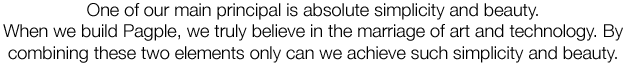
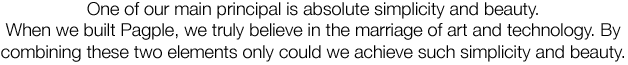
annotation building, transition done

diff --git a/Alpha/css/style.css b/Alpha/css/style.css
@@ -26,7 +26,7 @@ input {
 body,
 html {
   position: relative;
-  min-width: 1752px;
+  min-width: 1764px;
   max-width: 1920px;
   width: 100%;
   height: 100%;
@@ -103,6 +103,7 @@ div#navigationBar-anchor{
  }
 
  div#navigationBar li a {
+     
    text-decoration: none;
    color: white;
    text-align: center;
@@ -118,8 +119,8 @@ div#navigationBar-anchor{
 
  div#navigationBar li a p {
    padding-left: 10px;
-   padding-top: 10px;
-   font-family: "HelveticaNeue-Bold", "Helvetica Neue Bold", "Helvetica Neue", Helvetica, Arial, "Lucida Grande", sans-serif;
+   padding-top: 15px;
+   font-family: ProximaNova, "HelveticaNeue-Light", "Helvetica Neue Light", "Helvetica Neue", Helvetica, Arial, "Lucida Grande", sans-serif;
    font-weight: 700;
    font-size: 17px;
    vertical-align: middle;
@@ -158,7 +159,7 @@ div#overview {
   position: relative;
   margin: 0 auto;
   margin-top: 100px;
-  width: 80%;
+  width: 70%;
   height: 427px;
   -moz-border-radius: 5px;
   -webkit-border-radius: 5px;
@@ -221,7 +222,7 @@ div#overview {
 div#threeDesc {
   margin: 0 auto;
   margin-top: 50px;
-  width: 80%;
+  width: 70%;
   height: 1342px;
   -moz-border-radius: 5px;
   -webkit-border-radius: 5px;
@@ -291,8 +292,8 @@ div#threeDesc {
  }
 
   div#threeDesc div#pageIntro div {
-    width: 400px;
-    height: 667px;
+    width: 350px;
+    height: 583px;
     -webkit-box-shadow: -1px 2px 5px rgba(0, 0, 0, 0.7);
     -moz-box-shadow: -1px 2px 5px rgba(0, 0, 0, 0.7);
     box-shadow: -1px 2px 5px rgba(0, 0, 0, 0.7);
@@ -327,8 +328,8 @@ div#threeDesc {
 div#simple {
   margin: 0 auto;
   margin-top: 50px;
-  width: 80%;
-  height: 1950px;
+  width: 70%;
+  height: 1900px;
   -moz-border-radius: 5px;
   -webkit-border-radius: 5px;
   border-radius: 5px;
@@ -349,21 +350,26 @@ div#simple {
    background-size: cover;
  }
 
-  div#simple div#simpleBackground #macbook {
+  div#simple div#simpleBackground .macbook {
     position: absolute;
     margin: 0 auto;
     bottom: 0;
     margin-bottom: -25px;
-    margin-left: 15%;
-    width: 1050px;
+    margin-left: 10%;
+    width: 80%;
     height: 600px;
-    background: url(../img/simple/Macbookpro.png) no-repeat;
-    -webkit-background-size: cover;
-    -moz-background-size: cover;
-    -o-background-size: cover;
-    background-size: cover;
+  }
+div.macbook img {
+    position: absolute;
+    margin: 0 auto;
+    bottom: 0;
+    width: 100%;
+    height: 600px;
   }
 
+  div.macbook .show {
+    z-index: 500;
+}
  div#simple #simpleBackground #textdiv {  padding-top: 70px }
 
   div#simple #simpleBackground #textdiv div#headline {
@@ -426,7 +432,7 @@ div#simple {
 
  div#simple #basictextdiv {
    padding-top: 50px;
-   margin-bottom: 50px;
+   margin-bottom: 20px;
  }
 
   div#simple #basictextdiv div#headline {
@@ -453,7 +459,7 @@ div#simple {
  }
 
  div#simple div#sample-forms {
-   padding-top: 100px;
+   /*padding-top: 20px;*/
    margin: 0 auto;
    width: 725px;
    height: 328px;
@@ -463,7 +469,7 @@ div#simple {
 div#elements {
   margin: 0 auto;
   margin-top: 50px;
-  width: 80%;
+  width: 70%;
   height: 2600px;
   -moz-border-radius: 5px;
   -webkit-border-radius: 5px;
@@ -533,10 +539,11 @@ div#elements {
 footer {
   position: fixed;
   bottom: 0;
+  left:10px;
   /*background-color: #1f1f1f;*/
-  opacity: 0.6;
-  width: 10%;
-  float: left;
+  opacity: 0.8;
+  width: 5%;
+  /*float: left;*/
   height: 36px;
   -webkit-transition: opacity 1s;
   -moz-transition: opacity 1s;

diff --git a/Alpha/js/script.js b/Alpha/js/script.js
@@ -1,5 +1,5 @@
 // click on the div
-
+var bgChg = false;
 function toggle(e, id) {
     var el = document.getElementById(id);
     $(el).fadeOut("slow");
@@ -25,6 +25,9 @@ document.onclick = function () {
 }
 
 $(document).ready(function () {
+thebackground();
+    $('div.macbook').fadeIn(1000); // works for all the browsers other than IE
+    $('div.macbook img').fadeIn(1000); // IE tweak
     $("#email-form").submit(function (e) {
         e.preventDefault(); // stop from summiting normally
 
@@ -78,3 +81,20 @@ $(function () {
     $(window).scroll(a);
     a()
 });
+
+function thebackground() {
+    
+    setInterval('change()', 7000);
+}
+
+function change() {
+    if(bgChg){
+        $('div.macbook img').fadeIn(1000);
+        $('div.macbook img:first').fadeOut(1000);
+        bgChg=false;
+    }else{
+        $('div.macbook img').fadeOut(1000);
+        $('div.macbook img:first').fadeIn(1000);
+        bgChg=true;
+    }
+};

diff --git a/Alpha/index.html b/Alpha/index.html
@@ -123,7 +123,10 @@
                         <div id="headline"></div>
                         <div id="midline"></div>
                     </div>
-                    <div id="macbook"></div>
+                    <div class="macbook">
+                        <img src="img/simple/Macbookpro.png"/>
+                        <img src="img/simple/macbookpro-tr.png"/>
+                    </div>
                 </div>
                 <div id="simpleMainBar"></div>
                 <div id="desctextdiv">

diff --git a/Alpha/css/font.css b/Alpha/css/font.css
@@ -9,7 +9,7 @@
 @font-face{
   font-family:ProximaNova;
   font-style: normal;
-  font-weight:100;
+  font-weight:700;
   src:url("../font/ProximaNova-Light.otf") format('opentype');
 }
 
